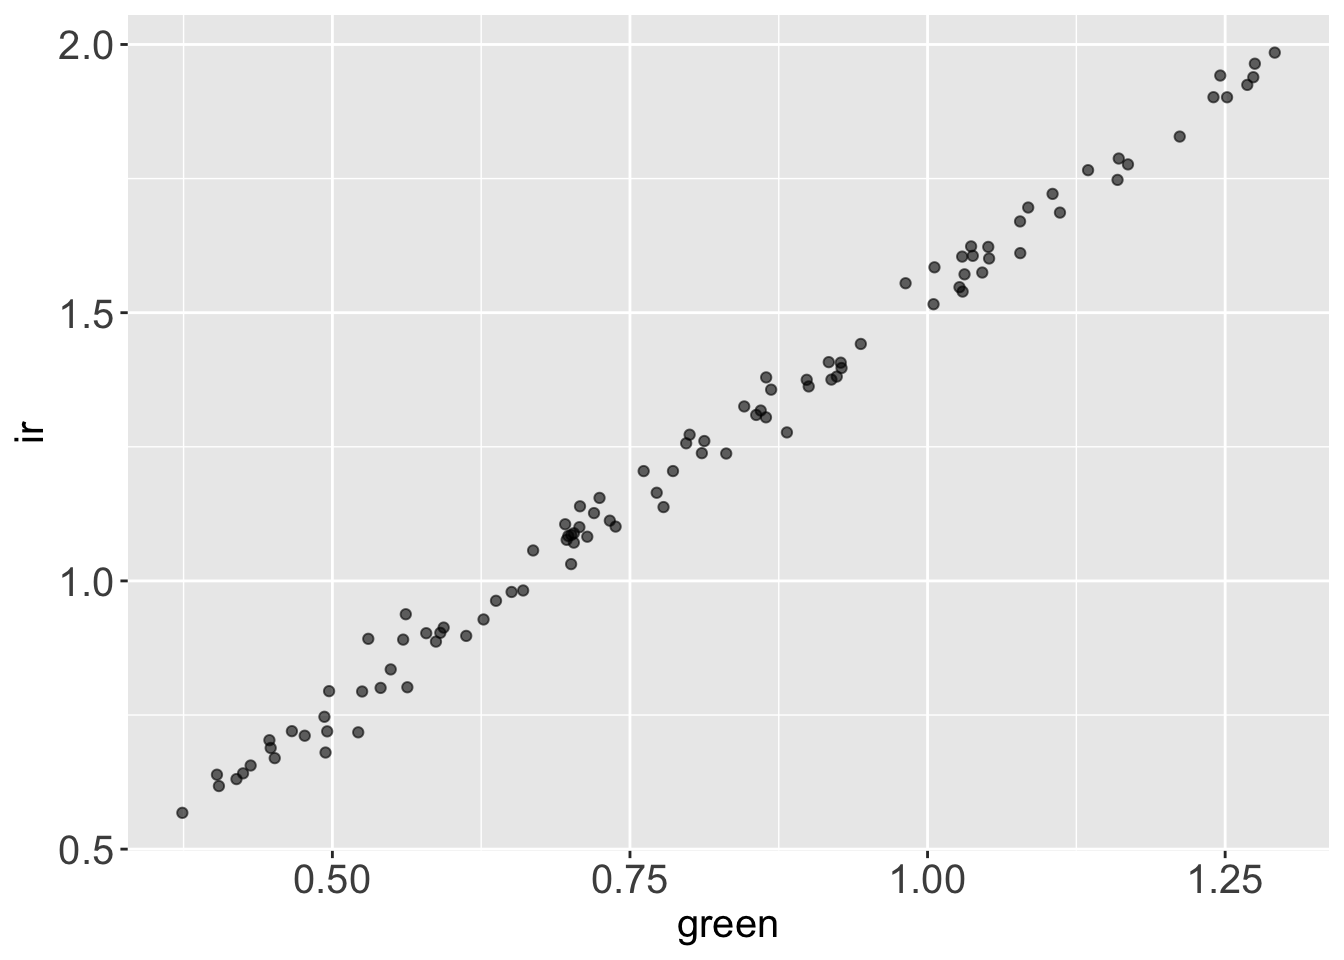
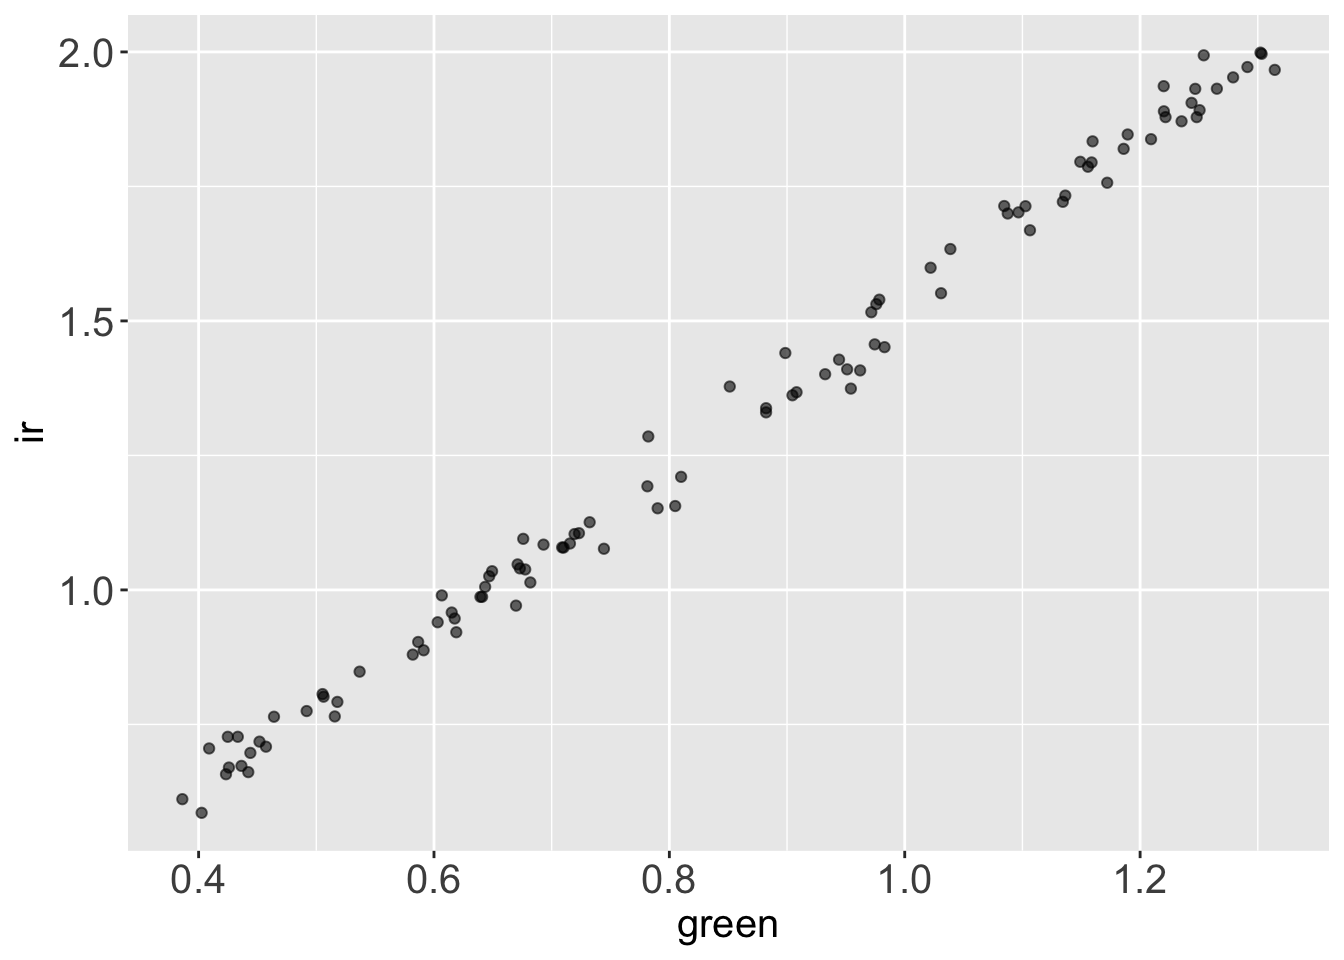
deploy

diff --git a/docs/slides/76-unsupervised.html b/docs/slides/76-unsupervised.html
@@ -296,16 +296,16 @@ dbl (12): Replicate_nb (1/2), Plant_nb (1 to 3), Panicle_nb (1 to 3), Rachis...
 <pre><code># A tibble: 100 × 2
       ir green
    &lt;dbl&gt; &lt;dbl&gt;
- 1 0.618 0.405
- 2 1.08  0.714
- 3 1.06  0.669
- 4 1.38  0.864
- 5 0.928 0.627
- 6 0.670 0.452
- 7 1.13  0.720
- 8 0.680 0.494
- 9 0.703 0.447
-10 1.08  0.697
+ 1 0.775 0.492
+ 2 0.705 0.409
+ 3 1.85  1.19 
+ 4 1.94  1.22 
+ 5 0.802 0.506
+ 6 0.727 0.433
+ 7 1.70  1.10 
+ 8 1.09  0.676
+ 9 0.661 0.442
+10 1.52  0.972
 # … with 90 more rows
 # ℹ Use `print(n = ...)` to see more rows</code></pre>
 </div>
